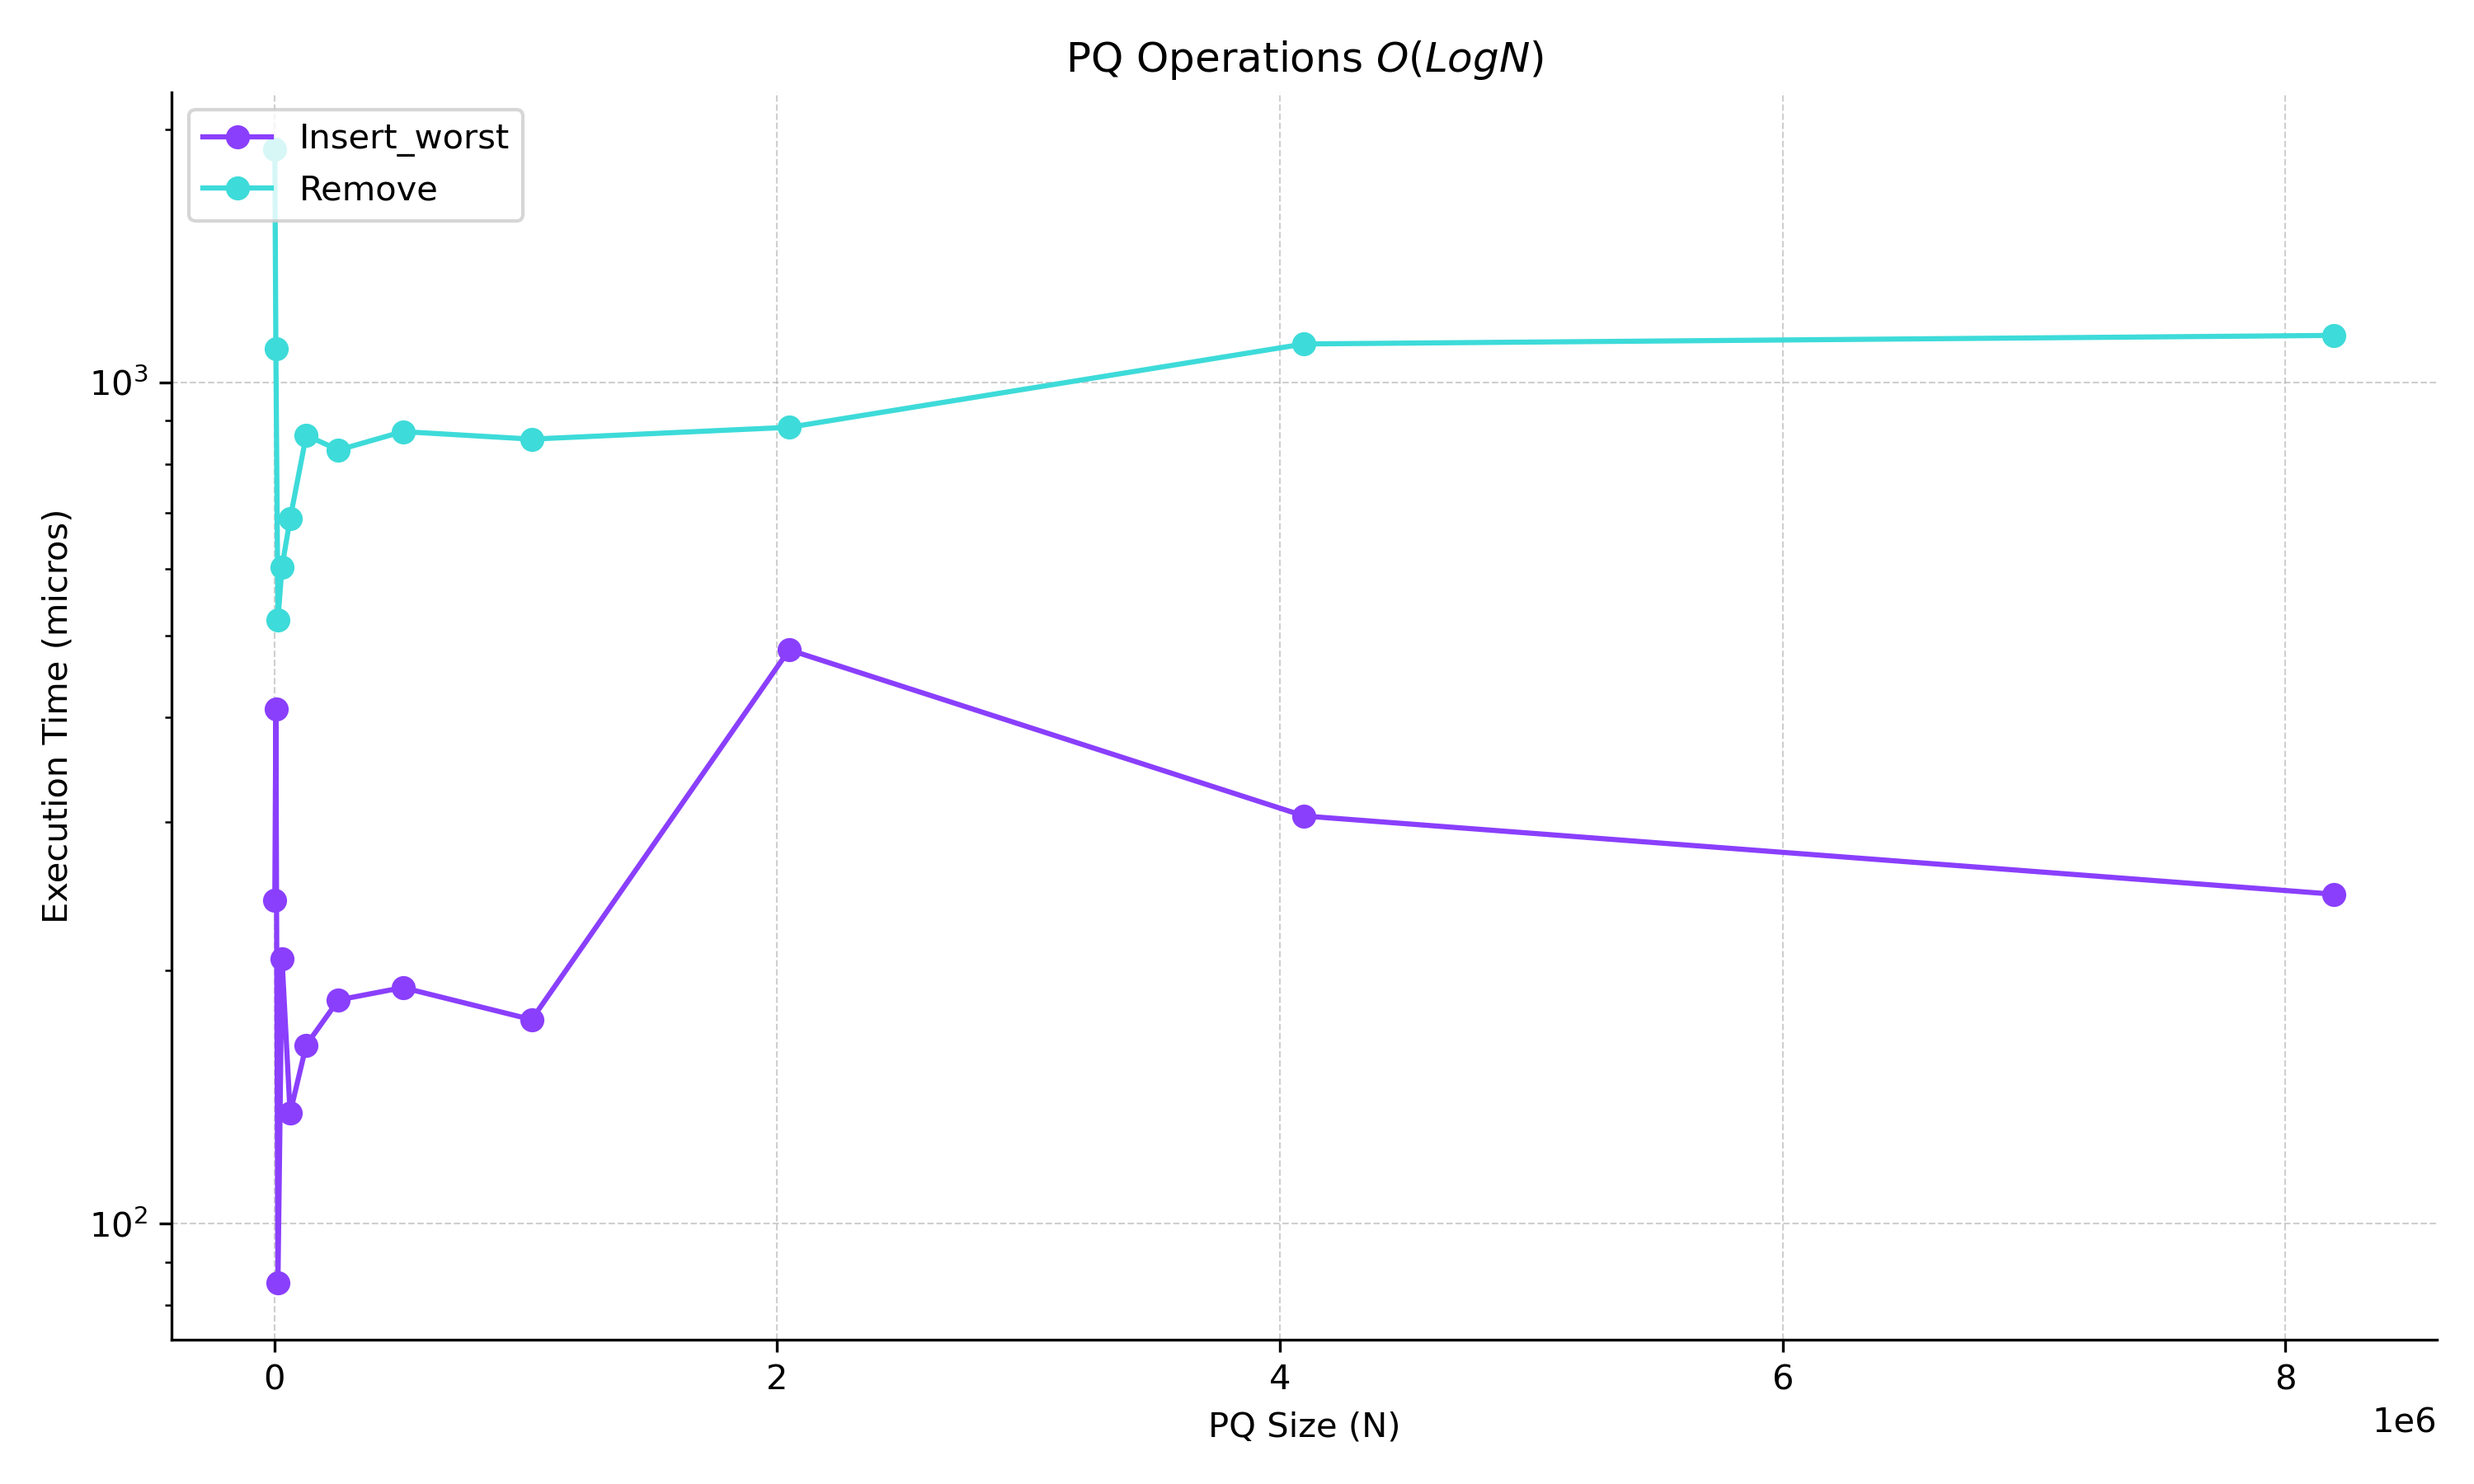
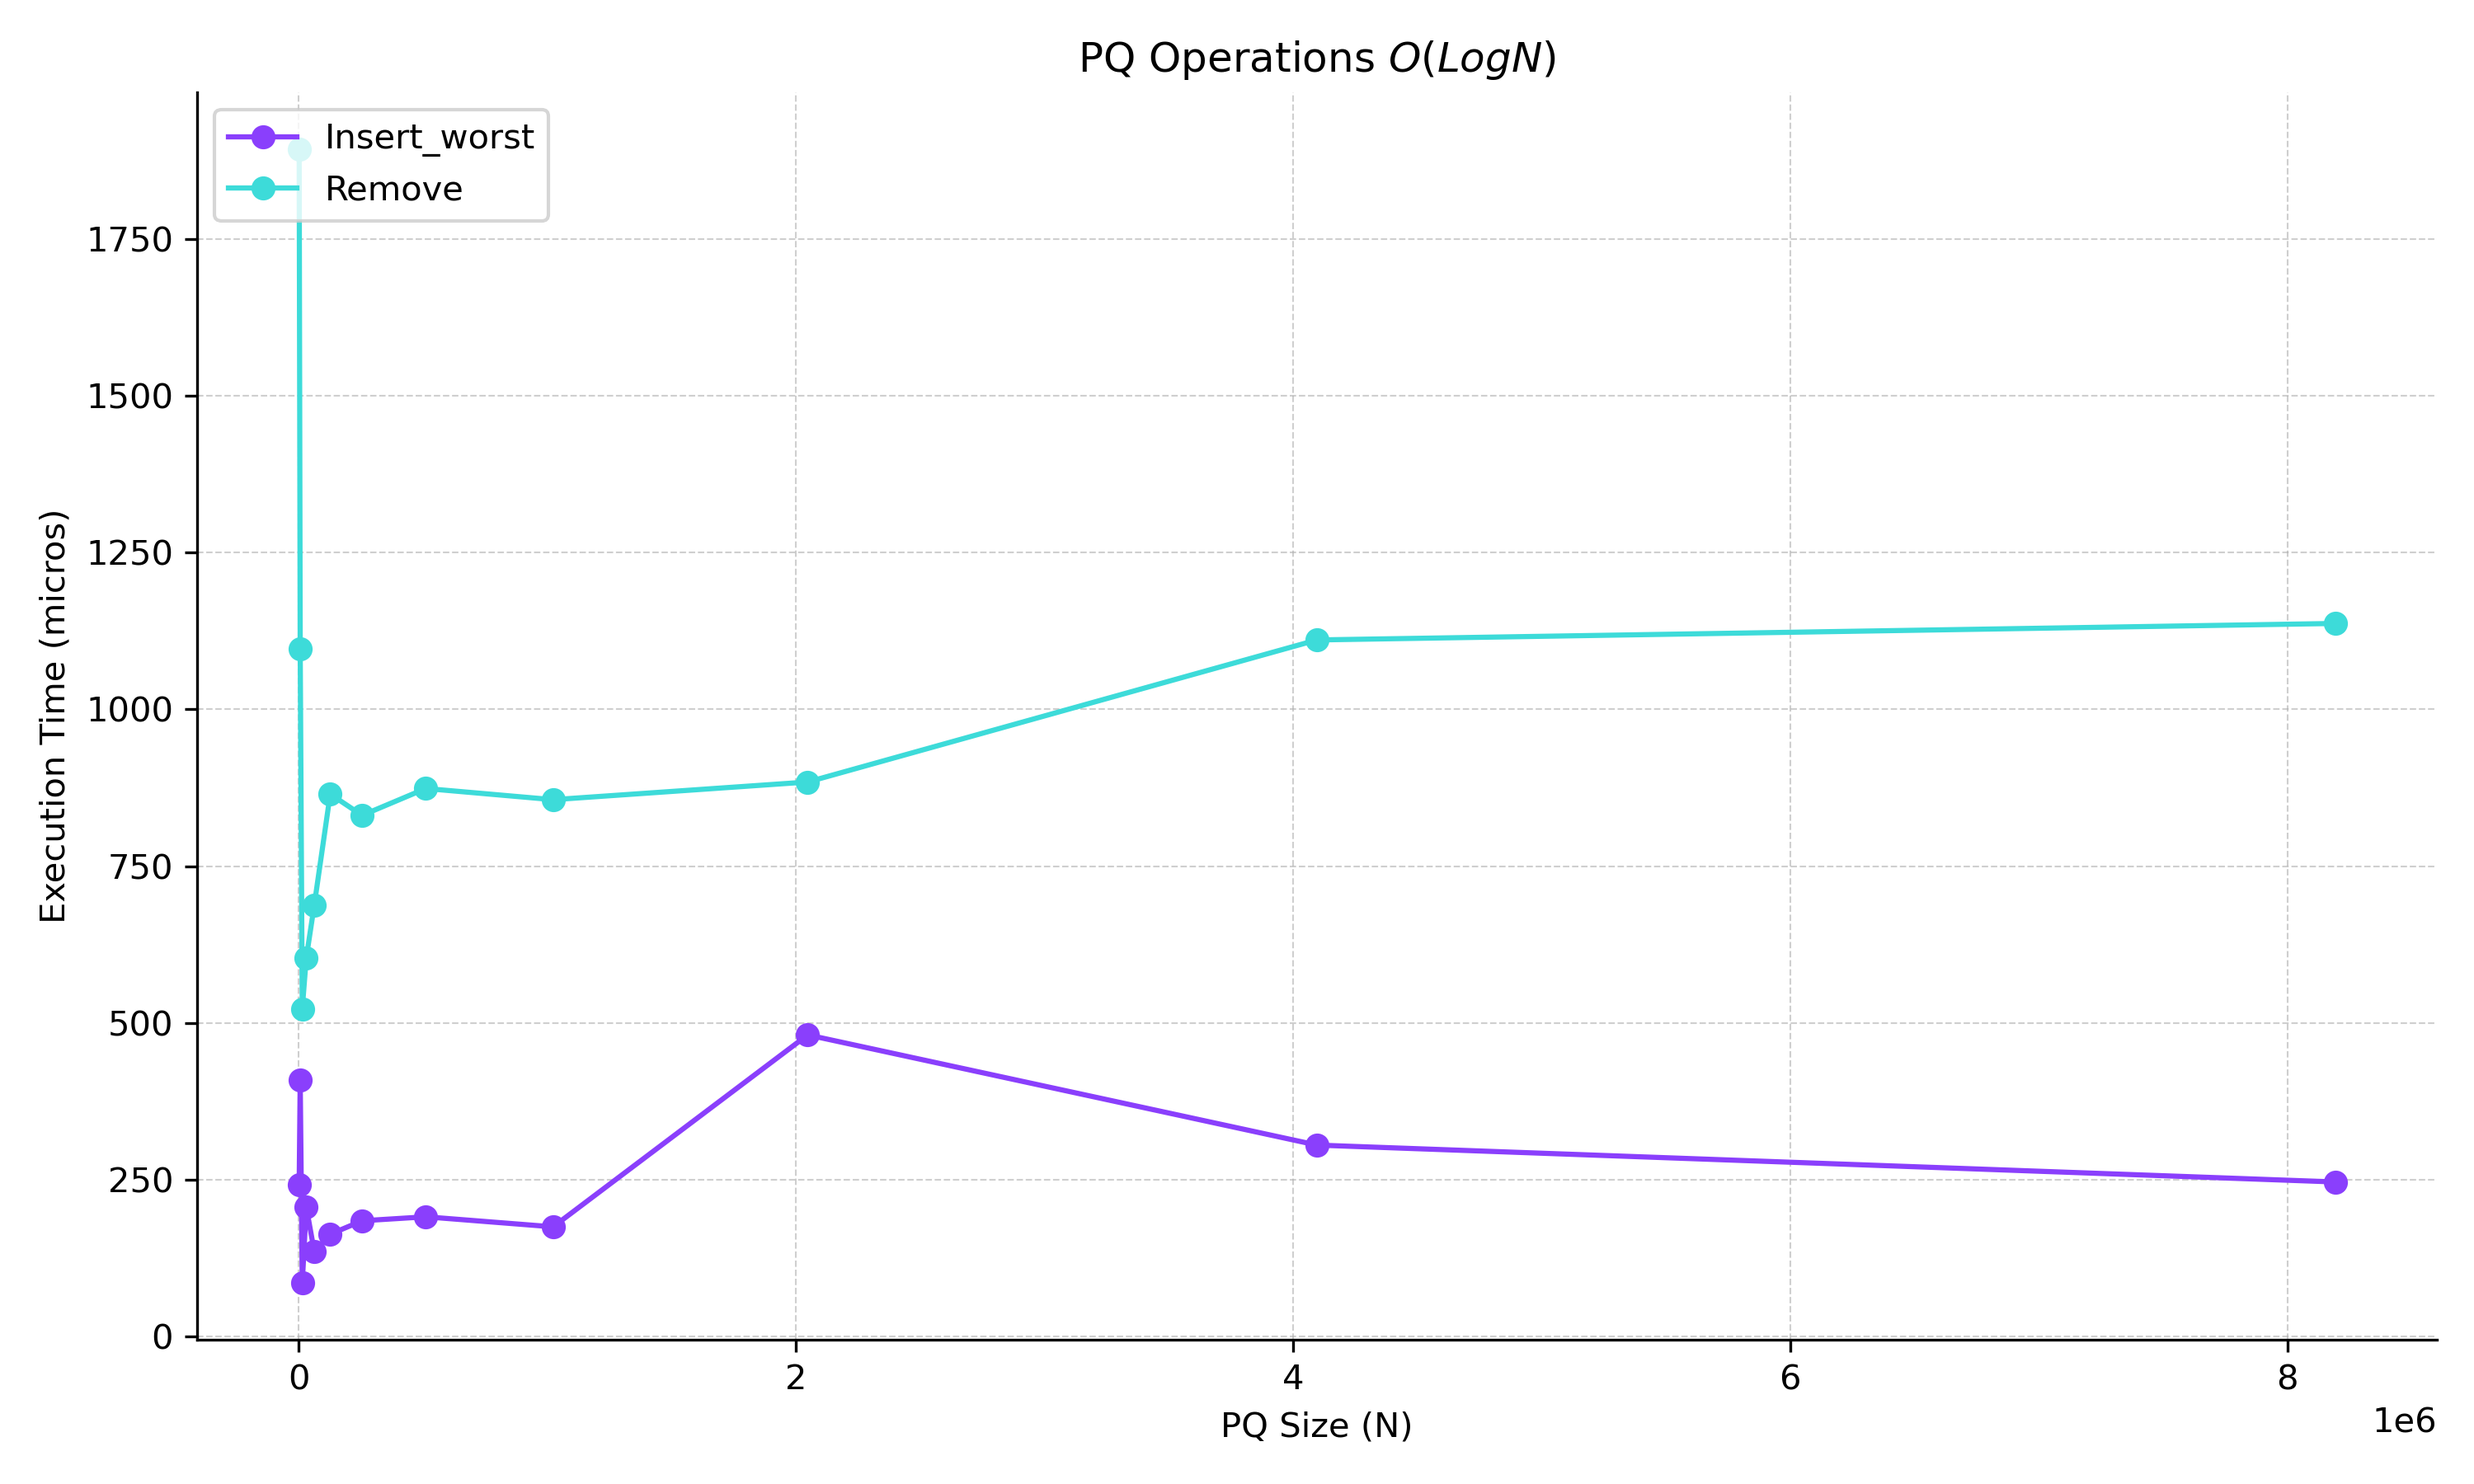
fix inverse fn

diff --git a/ads2-zestaw2/src/B/set_hashed_benchmark.cpp b/ads2-zestaw2/src/B/set_hashed_benchmark.cpp
@@ -1,0 +1,100 @@
+// #include "SimpleSet.hpp"
+#include <chrono>
+#include <fstream>
+#include <iostream>
+#include <numeric>
+#include <random>
+#include <variant>
+#include <vector>
+
+#include "set_hashed.hpp"
+using SetTypes = std::variant<SetHashed<1>, SetHashed<2>, SetHashed<4>,
+                              SetHashed<10>, SetHashed<100>>;
+
+constexpr int NUM_RUNS = 10;
+constexpr std::size_t START_N = 0;
+constexpr std::size_t MAX_N = 1000000;
+constexpr std::size_t STEP = 100000;
+
+using Clock = std::chrono::high_resolution_clock;
+
+template <typename T>
+void do_not_optimize(T&& val) {
+    auto volatile force = std::forward<T>(val);
+    (void)force;
+}
+
+void run_benchmarks() {
+    std::ofstream csv("list_set_benchmarks.csv");
+    // Header for the CSV
+    csv << "N,Insert_ms, Union_ms\n";
+
+    SetHashed<1> sh1{};
+    SetHashed<2> sh2{};
+    SetHashed<4> sh4{};
+    SetHashed<10> sh10{};
+    SetHashed<100> sh100{};
+
+    std::vector<SetTypes> sets1{sh1, sh2, sh4, sh10, sh100};
+    std::vector<SetTypes> sets2{sh1, sh2, sh4, sh10, sh100};
+
+    std::random_device rd;
+    std::mt19937 gen(rd());
+    std::uniform_int_distribution<std::uint32_t> random_number =
+        std::uniform_int_distribution<std::uint32_t>(
+            0, std::numeric_limits<uint32_t>::max());
+
+    ListSet main_s1{}, main_s2{};
+    for (std::size_t n = START_N; n <= MAX_N; n += STEP) {
+        // Accumulators for averages
+        std::vector<double> d_ins, d_uni;
+
+        // Insert elements to sets
+        for (int i = STEP; i > 0; --i) {
+            auto num1 = random_number(gen);
+            for (auto& s : sets1) {
+                std::visit([&num1](auto& set) { set.insert(num1); }, s);
+            }
+            auto num2 = random_number(gen);
+            for (auto& s : sets2) {
+                std::visit([&num2](auto& set) { set.insert(num2); }, s);
+            }
+        }
+
+        for (int run = 0; run < NUM_RUNS; ++run) {
+            auto s1 = main_s1;
+            auto s2 = main_s2;
+            std::cout << "Cur set size " << s1.size() << std::endl;
+            std::size_t idx = s1.size() * 2;
+
+            // --- O(n) Operations (recorded in ms) ---
+            auto start = Clock::now();
+            s1.insert(idx);
+            d_ins.push_back(
+                std::chrono::duration<double, std::milli>(Clock::now() - start)
+                    .count());
+
+            // BRUH
+            start = Clock::now();
+            auto r_uni = s1.Union(s2);
+            d_uni.push_back(
+                std::chrono::duration<double, std::milli>(Clock::now() - start)
+                    .count());
+
+            auto avg = [](const std::vector<double>& v) {
+                return std::accumulate(v.begin(), v.end(), 0.0) / v.size();
+            };
+
+            csv << main_s1.size() << "," << avg(d_ins) << avg(d_uni) << "\n";
+
+            std::cout << "Done N: " << n << std::endl;
+        }
+        csv.close();
+    }
+}
+
+auto main() -> int {
+    run_benchmarks();
+
+    return 0;
+}

diff --git a/ads2-zestaw4/src/matrix_graph.hpp b/ads2-zestaw4/src/matrix_graph.hpp
@@ -1,0 +1,64 @@
+#ifndef MATRIX_GRAPH
+#define MATRIX_GRAPH
+
+#include <cstdint>
+#include <optional>
+#include <unordered_map>
+#include <utility>
+#include <vector>
+template <typename VV, typename EV>
+class MatrixGraph {
+    std::unordered_map<uint32_t, uint32_t> vertex_index_map{};
+    std::unordered_map<uint32_t, uint32_t> index_vertex_map{};
+
+    std::vector<std::vector<bool>> matrix{};
+
+    std::unordered_map<std::pair<uint32_t, uint32_t>, EV> egde_value_map{};
+
+    public:
+    bool adjacent(uint32_t x, uint32_t y) {
+        uint32_t x_idx = vertex_index_map[x];
+        uint32_t y_idx = vertex_index_map[x];
+        return matrix[x_idx][y_idx];
+    }
+
+    std::vector<uint32_t> neighbours(uint32_t x) {}
+
+    void addVertex(uint32_t x) {
+        if (vertex_index_map.contains(x)) {
+            return;
+        }
+        vertex_index_map[x] = matrix.size();
+        index_vertex_map[vertex_index_map[x]] = x;
+
+        for (auto& r : matrix) {
+            r.push_back(false);
+        }
+        matrix.push_back(std::vector<bool>(matrix[0].size(), false));
+    }
+
+    void removeVertex(uint32_t x) {
+        uint32_t x_idx = vertex_index_map[x];
+        vertex_index_map.erase(x);
+        uint32_t swap_element = index_vertex_map[matrix.size() - 1];
+        vertex_index_map[swap_element] = x_idx;
+        index_vertex_map.erase(index_vertex_map[matrix.size() - 1]);
+        index_vertex_map[x_idx] = swap_element;
+        std::swap(matrix[x_idx], matrix[matrix.size() - 1]);
+        matrix.pop_back();
+    }
+
+    void addEdge(uint32_t x, uint32_t y) {}
+
+    void removeEdge(uint32_t x, uint32_t y) {}
+
+    VV getVertexValue(uint32_t x) {}
+
+    void setVertexValue(uint32_t x, VV v) {}
+
+    EV getEdgeValue(uint32_t x, uint32_t y) {}
+
+    void setEdgeValue(uint32_t x, uint32_t y, EV v) {}
+};
+
+#endif

diff --git a/ads2-zestaw2/src/A/main.cpp b/ads2-zestaw2/src/A/main.cpp
@@ -7,6 +7,7 @@
 void even_set_test() {
     auto even_set_map = [](size_t x) { return x / 2; };
     auto even_set_validate = [](size_t x) { return x % 2 == 0; };
+    auto inverse_fn = [](size_t x) { return x * 2; };
 
     CustomSet<uint32_t> even_set1(32, even_set_map, even_set_validate);
     CustomSet<uint32_t> even_set2(32, even_set_map, even_set_validate);
@@ -66,6 +67,7 @@ void even_set_test() {
 void odd_set_test() {
     auto odd_set_map = [](size_t x) { return x / 2; };
     auto odd_set_validate = [](size_t x) { return x % 2 == 1; };
+    auto inverse_fn = [](size_t x) { return x * 2 + 1; };
     CustomSet<uint32_t> odd_set(32, odd_set_map, odd_set_validate);
 
     CustomSet<uint32_t> odd_set1(32, odd_set_map, odd_set_validate);
@@ -126,6 +128,10 @@ void odd_set_test() {
 void char_set_test() {
     auto char_set_map = [](char c) { return static_cast<size_t>(c - 'a'); };
     auto char_set_validate = [](char c) { return c >= 'a' && c <= 'z'; };
+
+    auto inverse_char_set_map = [](int i) {
+        return static_cast<size_t>('a' + i);
+    };
 
     CustomSet<uint32_t> char_set1(26, char_set_map, char_set_validate);
     CustomSet<uint32_t> char_set2(26, char_set_map, char_set_validate);
@@ -188,6 +194,16 @@ void two_char_set_test() {
         char c0 = c[0] - 'a';
         char c1 = c[1] - 'a';
         return static_cast<size_t>(c0 * 26 + c1);
+    };
+
+    auto inverse_two_char_set_map = [](int i) {
+        char c1 = i % 26 + 'a';
+        char c0 = i / 26 + 'a';
+
+        std::string str = "";
+        str.push_back(c0);
+        str.push_back(c1);
+        return str;
     };
 
     auto two_char_set_validate = [](std::string c) {

diff --git a/ads2-zestaw2/src/B/set_hashed.hpp b/ads2-zestaw2/src/B/set_hashed.hpp
@@ -55,8 +55,8 @@ SetHashed<N> SetHashed<N>::Union(const SetHashed& other) const {
     auto new_set = SetHashed<N>();
     for (size_t i = 0; i < N; i++) {
         // auto out = new_set.buckets[i];
-        auto l_set = this->buckets[i];
-        auto r_set = other.buckets[i];
+        auto& l_set = this->buckets[i];
+        auto& r_set = other.buckets[i];
         new_set.buckets[i] = l_set.Union(r_set);
     }
     return new_set;
@@ -66,8 +66,8 @@ template <size_t N>
 SetHashed<N> SetHashed<N>::intersection(const SetHashed& other) const {
     auto new_set = SetHashed<N>();
     for (size_t i = 0; i < N; i++) {
-        auto l_set = this->buckets[i];
-        auto r_set = other.buckets[i];
+        auto& l_set = this->buckets[i];
+        auto& r_set = other.buckets[i];
         new_set.buckets[i] = l_set.intersection(r_set);
     }
     return new_set;
@@ -78,8 +78,8 @@ SetHashed<N> SetHashed<N>::subtract(const SetHashed& other) const {
     auto new_set = SetHashed<N>();
     for (size_t i = 0; i < N; i++) {
         // auto& out = new_set.buckets[i];
-        auto l_set = this->buckets[i];
-        auto r_set = other.buckets[i];
+        auto& l_set = this->buckets[i];
+        auto& r_set = other.buckets[i];
         new_set.buckets[i] = l_set.subtract(r_set);
     }
     return new_set;

diff --git a/ads2-zestaw3/scripts/b_plot_insert_remove.py b/ads2-zestaw3/scripts/b_plot_insert_remove.py
@@ -36,7 +36,7 @@ def save_plot(csv_file="binary_pq_benchmarks.csv"):
             color=colors[idx],
         )
 
-    plt.yscale("log")
+    # plt.yscale("log")
 
     plt.title("PQ Operations $O(LogN)$")
     plt.xlabel("PQ Size (N)")

diff --git a/ads2-zestaw4/src/main.cpp b/ads2-zestaw4/src/main.cpp
@@ -1,0 +1,7 @@
+#include <iostream>
+
+auto main() -> int {
+    std::cout << "Hello matrix representation" << std::endl;
+
+    return 0;
+}
